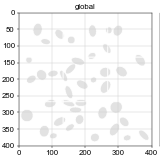
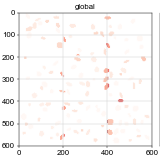
Increase fixture density, pin spatialdata-plot>=0.3.3
- Bump fixture from 40 cells on 400x400 to 120 cells on 600x600
  for more visible tile-grid pattern in diagnostic plots
- Pin spatialdata-plot>=0.3.3 for correct continuous color rendering
- Regenerate visual reference images
- Use _IMAGE_SIZE constant in centroid bounds test

diff --git a/tests/experimental/conftest.py b/tests/experimental/conftest.py
@@ -20,12 +20,12 @@ from spatialdata.models import Image2DModel, Labels2DModel
 # Tile-boundary QC fixture
 # ---------------------------------------------------------------------------
 
-_IMAGE_SIZE = 400
-_TILE_BORDERS = (133, 267)  # 3×3 grid on 400 px → borders at 133, 267
+_IMAGE_SIZE = 600
+_TILE_BORDERS = (200, 400)  # 3×3 grid on 600 px → borders at 200, 400
 _BORDER_GAP = 2  # pixels zeroed at each tile border
 _CELL_GAP = 2  # minimum gap between any two cells
-_N_CELLS_TARGET = 40
-_SEMI_AXIS_RANGE = (8, 20)  # semi-axis lengths in pixels
+_N_CELLS_TARGET = 120
+_SEMI_AXIS_RANGE = (6, 16)  # semi-axis lengths in pixels
 
 
 @dataclass

diff --git a/tests/experimental/test_tiling_qc.py b/tests/experimental/test_tiling_qc.py
@@ -214,11 +214,12 @@ class TestCalculateTilingQC:
         )
         assert "centroid_y" in adata.obs.columns
         assert "centroid_x" in adata.obs.columns
-        # Centroids should be within image bounds (400x400)
+        # Centroids should be within image bounds
+        from tests.experimental.conftest import _IMAGE_SIZE
         assert (adata.obs["centroid_y"] >= 0).all()
         assert (adata.obs["centroid_x"] >= 0).all()
-        assert (adata.obs["centroid_y"] < 400).all()
-        assert (adata.obs["centroid_x"] < 400).all()
+        assert (adata.obs["centroid_y"] < _IMAGE_SIZE).all()
+        assert (adata.obs["centroid_x"] < _IMAGE_SIZE).all()
 
     def test_params_stored_in_uns(self, sdata_tile_boundary):
         sdata, _ = sdata_tile_boundary